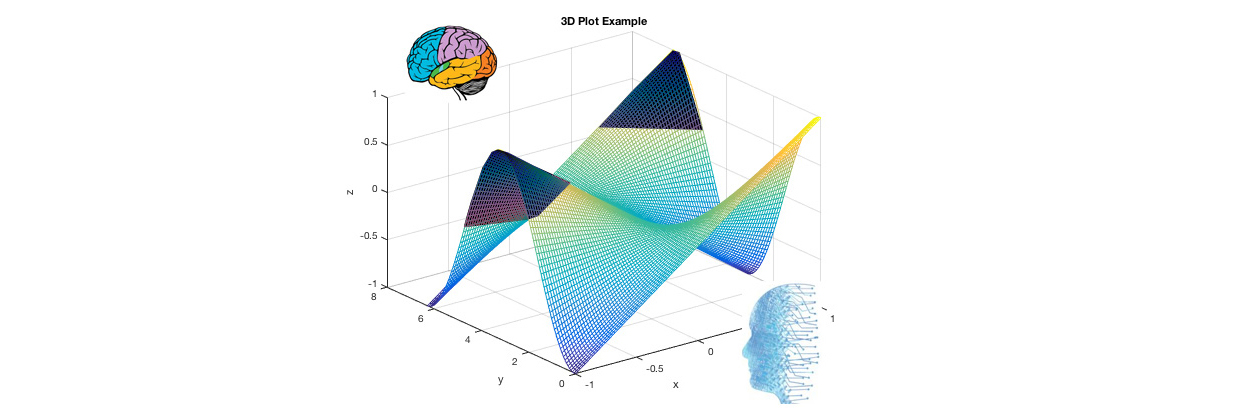
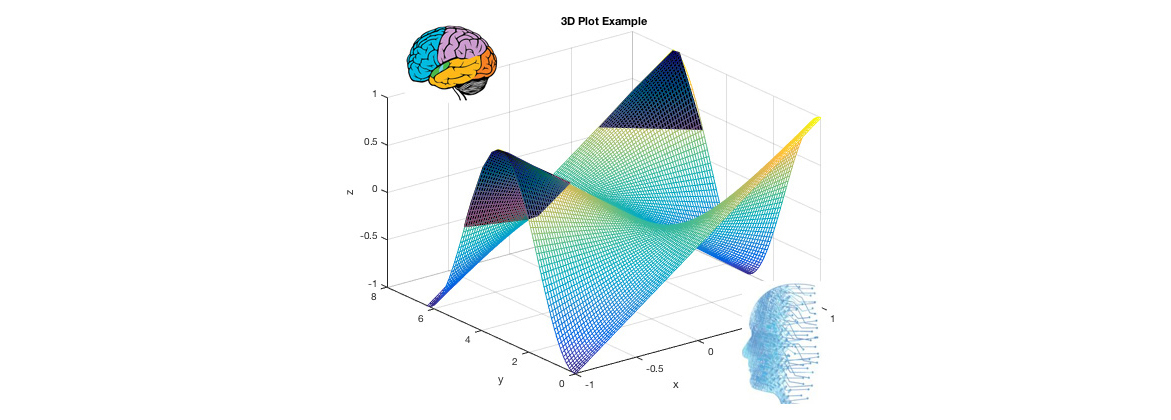
keynote

diff --git a/_site/keynotes/Wilson.html b/_site/keynotes/Wilson.html
@@ -210,8 +210,14 @@ ul.task-list li input[type="checkbox"] {
 <section id="lecture-abstract" class="level3">
 <h3 class="anchored" data-anchor-id="lecture-abstract">Lecture Abstract</h3>
 <p>Evolving from Design for Manufacturing and Assembly, Design for Excellence (DfX) refers to a more overarching concept,&nbsp;where “X” denotes various potential unknown or excellent factors such as quality, time, cost, functionality, safety, sustainability, and many others. Generative Artificial Intelligence (GenAI) further empowers DfX by rapidly producing a myriad of design options, evaluating their performance, and optimizing them according to predefined excellence criteria. However, this advancement has sparked concerns about GenAI’s potential invasion to traditional designers’ territories. This lecture contends that human and AI designers are not competitors but complementary contributors to achieving DfX. While the exponentially increasing computational power enables AI to enhance the generation, evaluation, and optimization (GEO) generic approach, they are remained computationally intensive. Through mathematical modeling and a case study, this research demonstrates that human designers’ intuition and heuristics can efficiently eliminate unfeasible ‘solution space’ and drive the AI designers quickly converge to the plausible solutions to avoid exhaustive searches and associated computational costs. AI excels at quantitative computations, whereas human designers are adept at addressing qualitative, intangible aspects such as aesthetics, ethics, and well-being. This study offers an evidence-based perspective to reframe the polarized debates about the role of human designers in the era of GenAI.</p>
-<p><img src="../images/keynotes/lu1.jpg" class="img-fluid"> The intensive computations in generative design</p>
-<p><img src="../images/keynotes/lu2.jpg" class="img-fluid"> Human’s heuristic and experience can exclude the heavy search of excellent solution in the entire ‘design space’</p>
+<img src="../images/keynotes/lu1.jpg" class="img-fluid">
+<center>
+The intensive computations in generative design
+</center>
+<img src="../images/keynotes/lu2.jpg" class="img-fluid">
+<center>
+Human’s heuristic and experience can exclude the heavy search of excellent solution in the entire ‘design space’
+</center>
 
 
 </section>
